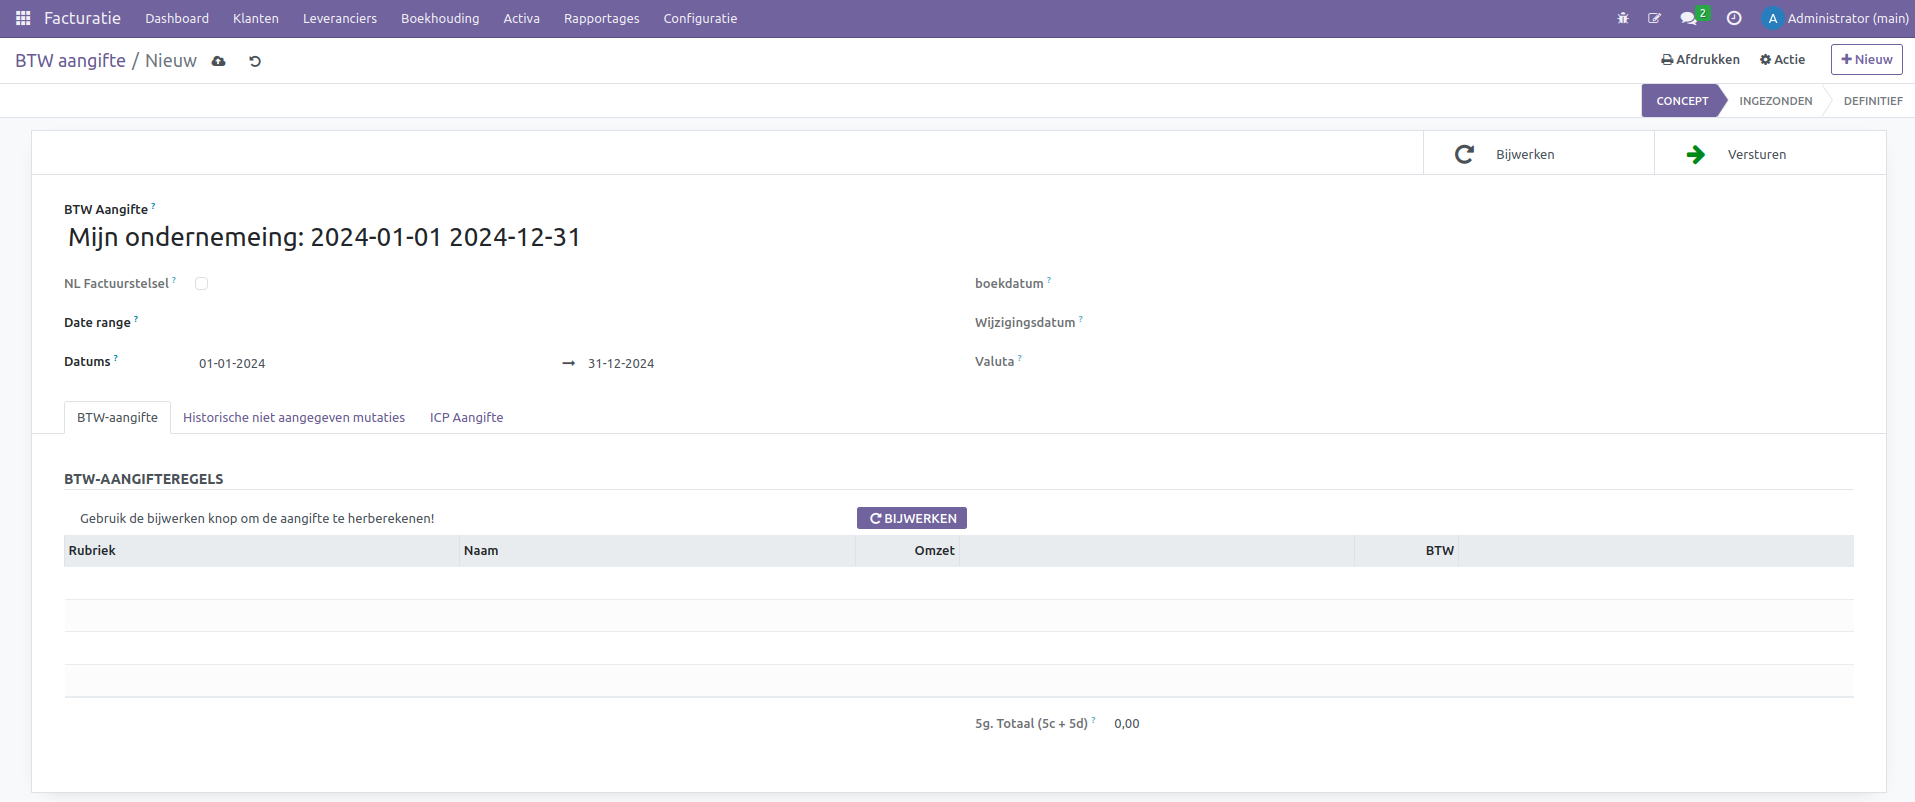
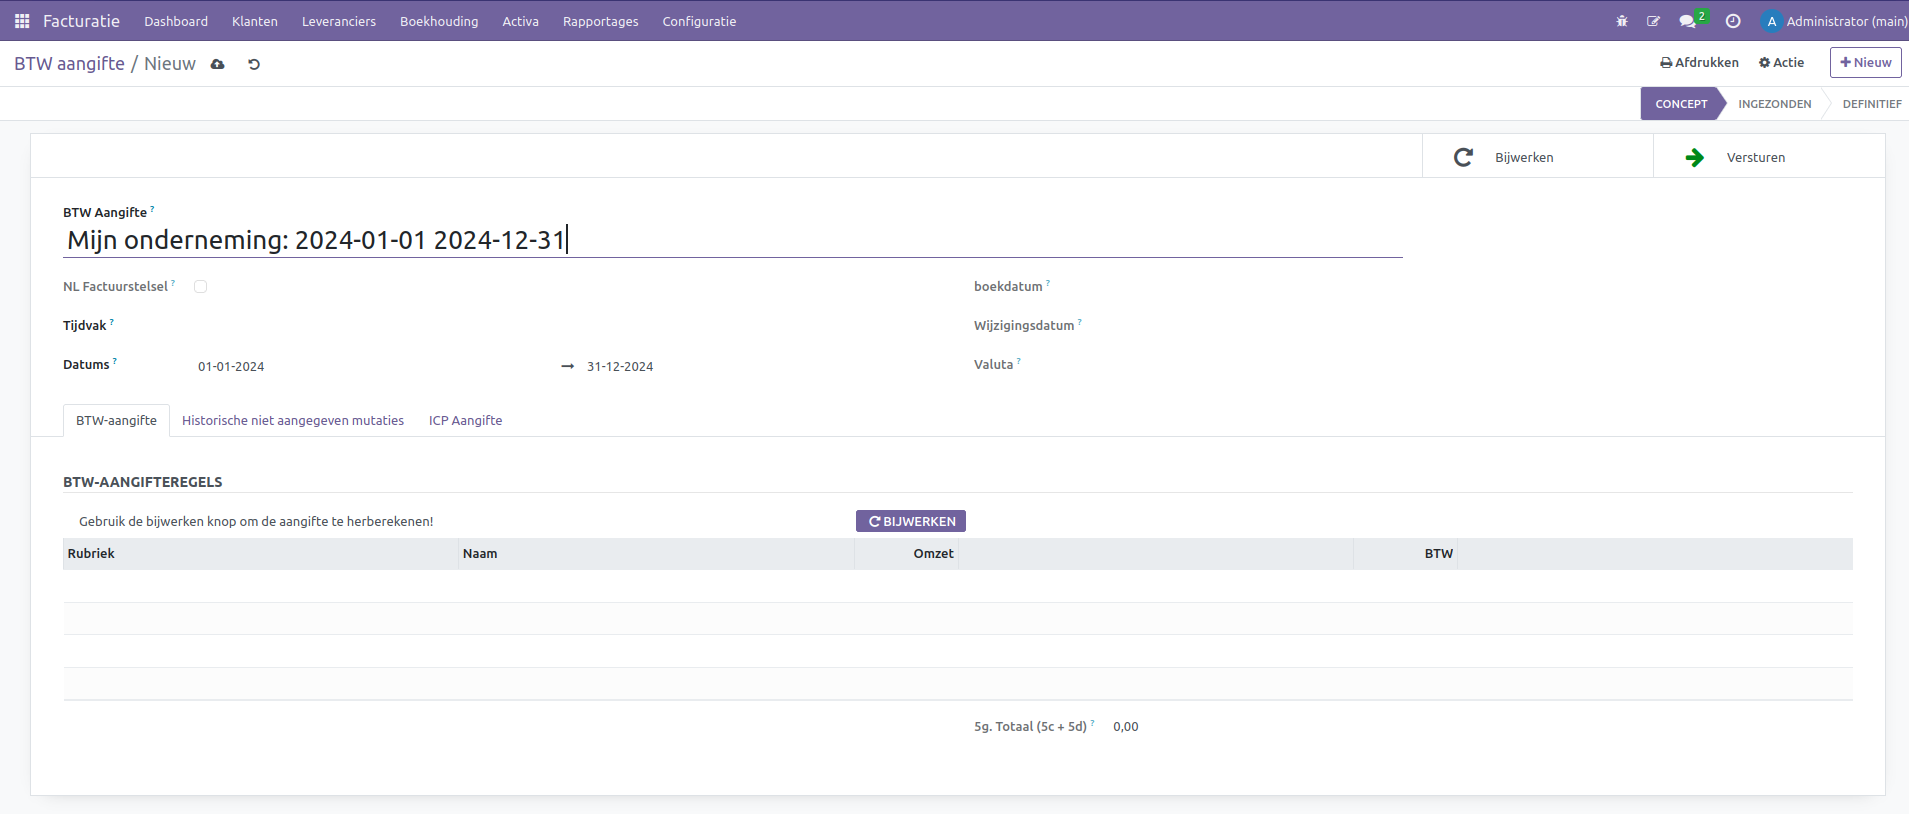
update docs

diff --git a/Handleiding/Boekhouding/rapportages_BTW.rst b/Handleiding/Boekhouding/rapportages_BTW.rst
@@ -11,16 +11,24 @@ Naast het voldoen aan wettelijke verplichtingen draagt de correcte indiening van
 BTW-Aangifte aanmaken
 ---------------------
 
-Een BTW-aangifte kan in Curq aangemaakt worden via Facturatie > Rapportages > BTW Aangifte.
+
+In Curq is het mogelijk om een BTW-aangifte aan te maken via Facturatie > Rapportages > BTW Aangifte.
 
 .. image:: Rapportages/rapportages_BTW001.png
 
-- **Lay-out:** Hier zijn vier opties beschikbaar om het ontwerp van jouw facturen of andere documenten te configureren.
-- **Lettertype:** Kies hier een van de beschikbare lettertypes
-- **Bedrijfslogo:** Upload hier je Bedrijfslogo.
-- **Kleuren:** Curq stelt de kleuren voor op basis van je bedrijfslogo.
-- **Achtergrond lay-out:** Kies een optie of upload je eigen achtergrond.
-- **Bedrijfsslogan:** Vul hier jouw slogan in. Dit is optioneel.
-- **Bedrijfsgegevens:** Vul hier jouw bedrijfsgegevens in.
-- **Voettekst:** Vul hier de voettekst in. Denk aan je telefoonnummer, website, mailadres, KvK, BTW-Nummer of je bankrekeningnummer.
-- **Papierformaat:** Kies het juiste formaat.
+- **BTW Aangifte:** Hier geef je de naam van de BTW-aangifte op. Indien nodig, kun je dit naar eigen wens aanpassen.
+- **Tijdvak:** Kies een van de beschikbare tijdvakken.
+- **Datums:** Voer eventueel een start- en einddatum in.
+- **boekdatum:** De datum wordt automatisch ingevuld zodra je op de knop [versturen] klikt, waardoor de aangifte als verzonden wordt beschouwd. Het indienen van de daadwerkelijke aangifte bij de belastingdienst moet echter nog steeds handmatig worden gedaan.
+- **Wijzigingsdatum:** Dit is de laatste datum waarop aanpassingen in de aangifte zijn gemaakt.
+
+Zodra alle gegevens zijn ingevoerd, klik dan op de bijwerkknop. Op dit moment wordt de BTW-aangifte opgebouwd en worden de BTW-vakken automatisch gevuld met gegevens uit de administratie. Als er al gegevens aanwezig zijn, worden deze bijgewerkt.
+
+BTW-Aangifte Controleren
+------------------------
+
+In de BTW-vakken er onder kan je jouw aangifte controleren. Zo kan je via het vergrootglasje de details opvragen en de achterliggende boekingen opvragen. Zo heb je snel inzicht waar het bedrag uit is opgebouwd.
+
+.. image:: Rapportages/rapportages_BTW002.png
+
+Wanneer de BTW-aangifte klaar is, dan kan je deze op [verstuurd] worden gezet. Op dit moment ga je naar de website van de belastingdienst en vul je daar jouw BTW-aangifte in. Zodra je dat hebt afgerond, dan ga je terug naar de Curq en klik je op [Definitief]. Nu is jou aangifte ook in Curq definitief.
